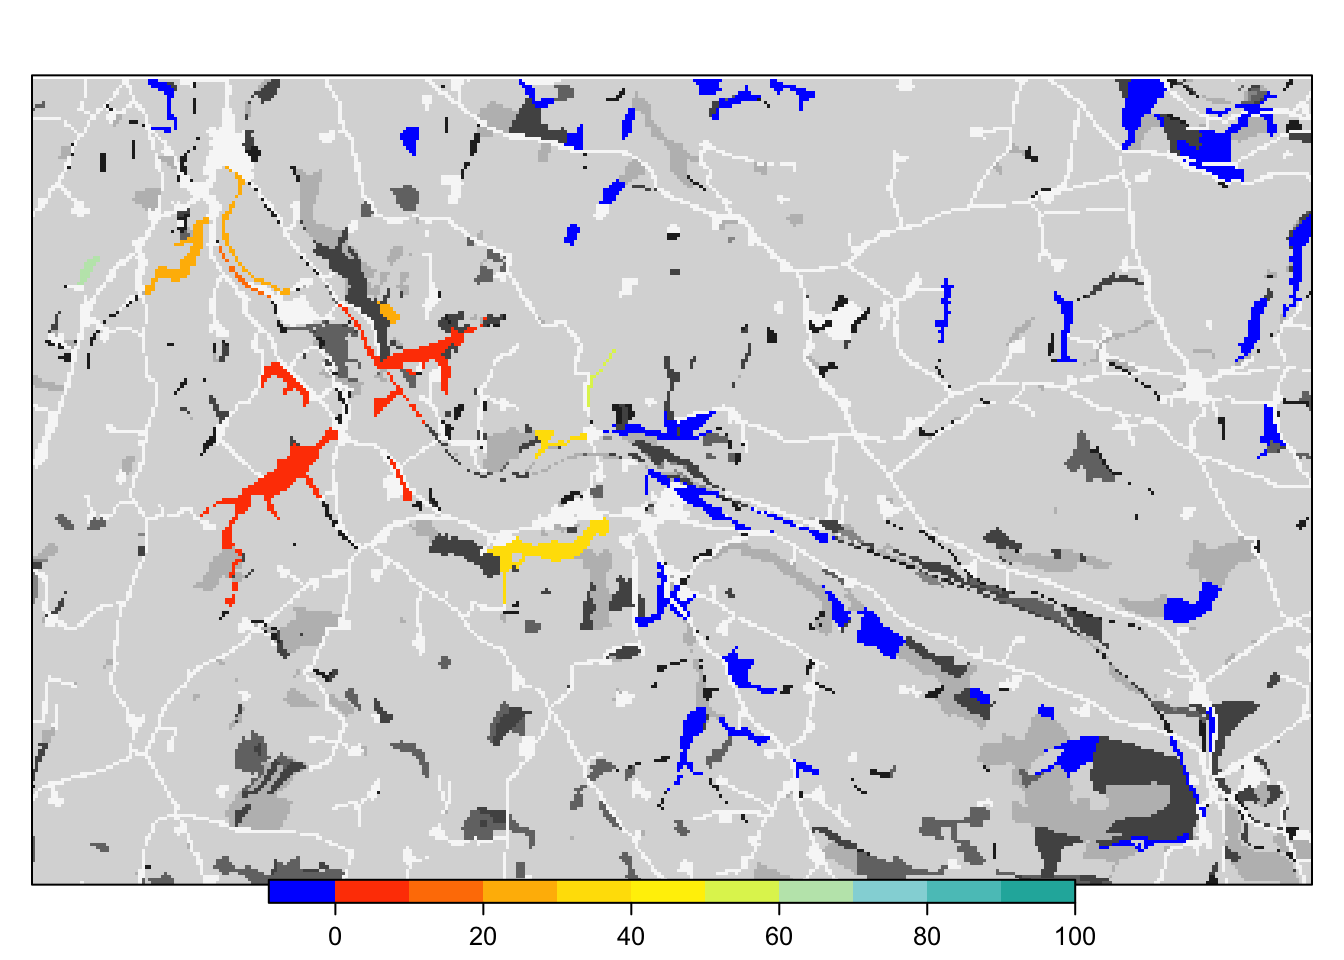
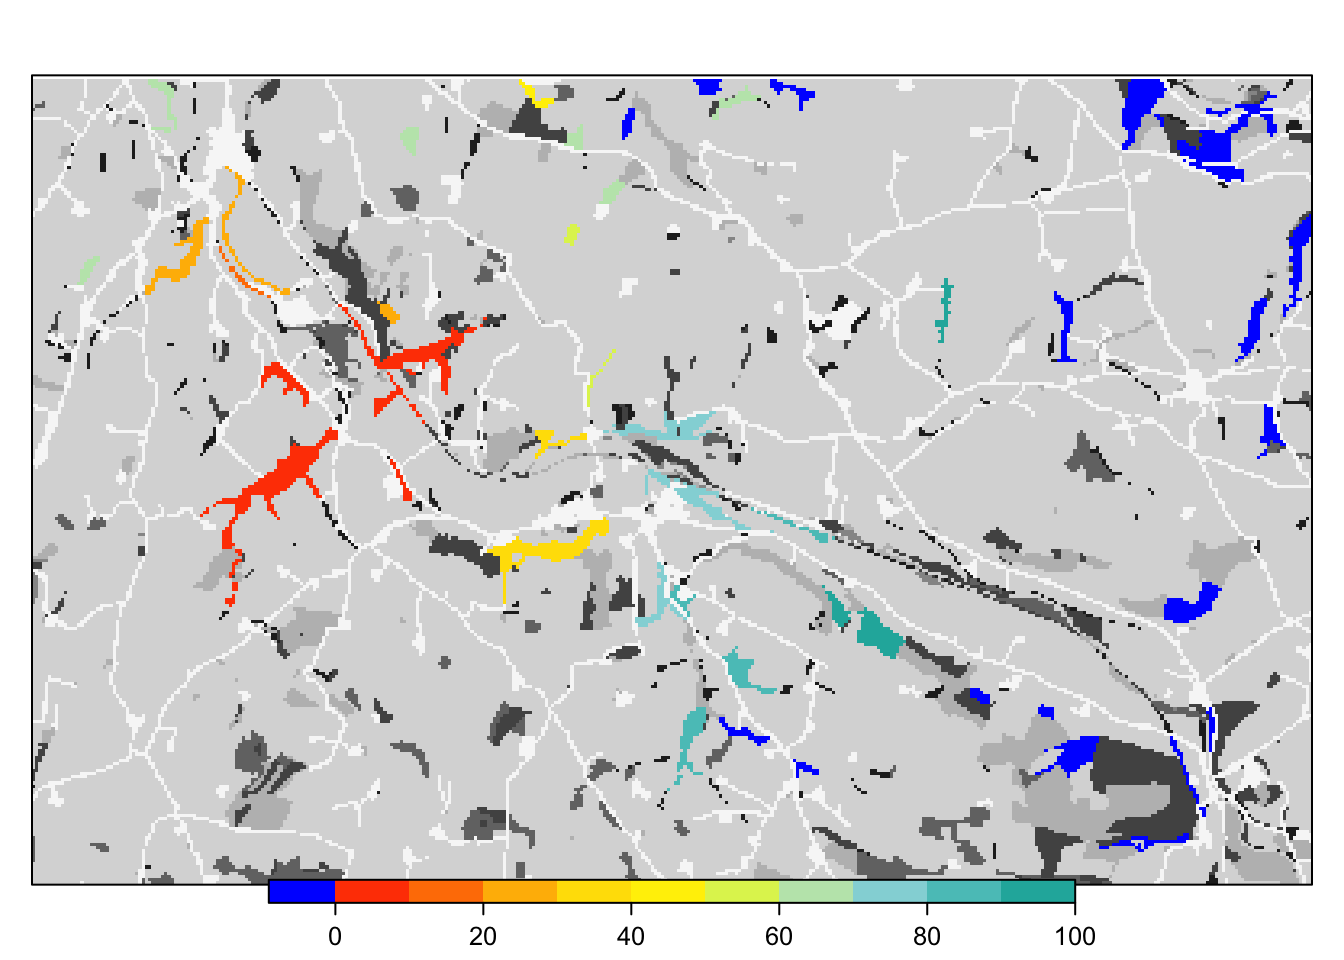
update colonisation stats

diff --git a/tutorial_2.html b/tutorial_2.html
@@ -592,18 +592,18 @@ bg &lt;- function(main=NULL){
     levelplot(landsc, margin=F, scales=list(draw=FALSE),at=seq(.5,7.5,by=1), colorkey=F,
                 col.regions = rev(brewer.pal(n = 7, name = &quot;Greys&quot;) ), main=main)
 }</code></pre>
-<p>To reproduce Fig. 3b of <span class="citation">Bocedi et al. (2014)</span>, we map the mean occupancy probability for each patch after 100 years (left panel in the paper) as well as the mean time to colonisation (right panel), both calculated over the 20 replicates. We need to do a little data processing for this.</p>
+<p>To reproduce Fig. 3b of <span class="citation">Bocedi et al. (2014)</span>, we map the mean occupancy probability for each patch in year 100 (left panel in the paper) as well as the mean time to colonisation (right panel), both calculated over the 20 replicates. We need to do a little data processing for this.</p>
 <pre class="r"><code># read population results
 pop_df &lt;- readPop(s, dirpath)
 pop_df &lt;- pop_df[pop_df$PatchID!=0,]
 
-# Occupancy probability after 100 years over all replicates
+# Occupancy probability in year 100 averaged over all replicates
 occ_prob &lt;- sapply(sort(unique(pop_df$PatchID)), FUN=function(x,n=length(unique(pop_df$Rep))){ind &lt;- sum(subset(pop_df,PatchID==x &amp; Year==100)$NInd&gt;0)/n; names(ind)=x;ind})
 
 # Time to colonisation:
 col_time &lt;- data.frame(sapply(sort(unique(pop_df$PatchID)),FUN=function(p){sapply(sort(unique(pop_df$Rep)),FUN=function(r){ ifelse(nrow(subset(pop_df,PatchID==p &amp; Rep==r &amp; NInd&gt;0)), min(subset(pop_df,PatchID==p &amp; Rep==r &amp; NInd&gt;0)$Year), NA) })}))
 names(col_time) &lt;- sort(unique(pop_df$PatchID))
-col_time_mean &lt;- colMeans(col_time)
+col_time_mean &lt;- colMeans(col_time, na.rm=T)
 
 # Update patch information
 patch_occ_prob &lt;- patch_col_time &lt;- patch
@@ -648,15 +648,15 @@ grid.draw(col.key(c(&#39;blue&#39;,mycol_coltime(11)), c(-9,seq(-.001,max(pop_df
 get_patch_results &lt;- function(pop_df,patch_r){
     # This function takes the patch-based population file and the patch raster map and produces summary stats and maps on occupancy probability and mean time to colonisation
 
-    # Occupancy probability after 100 years over all replicates
+    # Occupancy probability in year 100 averaged over all replicates
     occ_prob &lt;- sapply(sort(unique(pop_df$PatchID)), FUN=function(x,n=length(unique(pop_df$Rep))){ind &lt;- sum(subset(pop_df,PatchID==x &amp; Year==100)$NInd&gt;0)/n; names(ind)=x;ind})
 
     # Time to colonisation:
     col_time &lt;- data.frame(sapply(sort(unique(pop_df$PatchID)),FUN=function(p){sapply(sort(unique(pop_df$Rep)),FUN=function(r){ ifelse(nrow(subset(pop_df,PatchID==p &amp; Rep==r &amp; NInd&gt;0)), min(subset(pop_df,PatchID==p &amp; Rep==r &amp; NInd&gt;0)$Year), NA) })}))
     names(col_time) &lt;- sort(unique(pop_df$PatchID))
-    col_time_mean &lt;- colMeans(col_time)
+    col_time_mean &lt;- colMeans(col_time, na.rm=T)
 
-    patch_occ_prob &lt;- patch_col_time &lt;- patch
+    patch_occ_prob &lt;- patch_col_time &lt;- patch_r
     values(patch_occ_prob)[values(patch)&gt;0] &lt;- 0
     values(patch_col_time)[values(patch)&gt;0] &lt;- -9
 
@@ -665,10 +665,10 @@ get_patch_results &lt;- function(pop_df,patch_r){
     }
 
     for (i in as.numeric(names(col_time_mean))){
-        values(patch_col_time)[values(patch)==i] &lt;- ifelse(is.na(col_time_mean[paste(i)]),-9,col_time_mean[paste(i)])
+        values(patch_col_time)[values(patch_r)==i] &lt;- ifelse(is.na(col_time_mean[paste(i)]),-9,col_time_mean[paste(i)])
     }
 
-    values(patch_occ_prob)[values(patch)&lt;1] &lt;- values(patch_col_time)[values(patch)&lt;1] &lt;- NA
+    values(patch_occ_prob)[values(patch_r)&lt;1] &lt;- values(patch_col_time)[values(patch_r)&lt;1] &lt;- NA
 
     return(list(occ_prob=occ_prob, col_time=col_time, col_time_mean=col_time_mean, patch_occ_prob=patch_occ_prob, patch_col_time=patch_col_time))
 }
